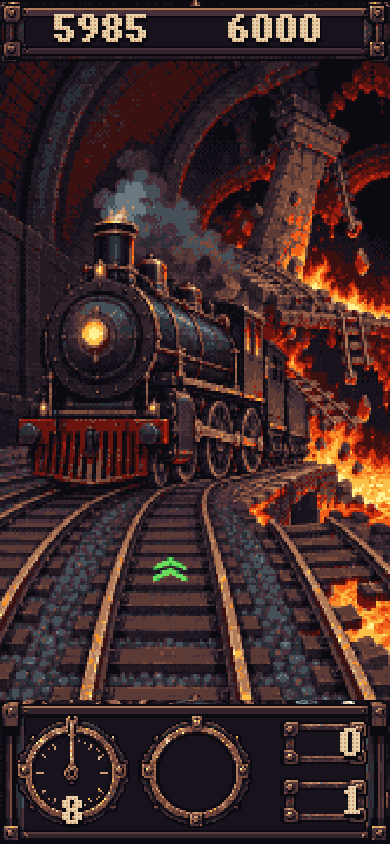
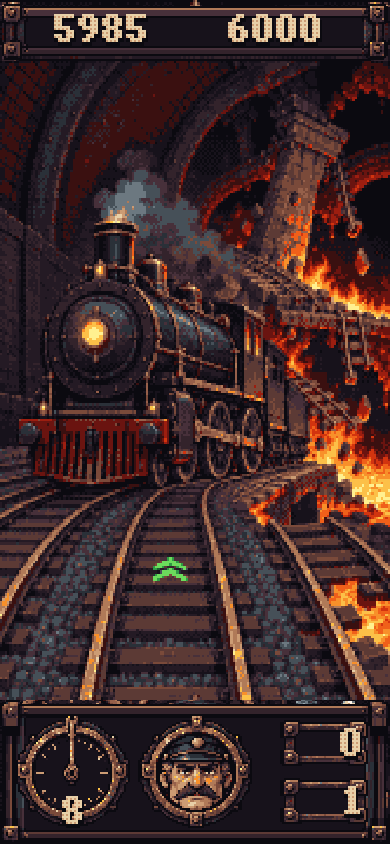
Добавь шесть реакций машиниста

Changed region(s): [[0.4, 0.8626, 0.6154, 0.9858]]

diff --git a/art_src/hud_v3/prepare.py b/art_src/hud_v3/prepare.py
@@ -95,11 +95,43 @@ def hardware():
 def load(name):
     return Image.open(OUT/(name+'.png')).convert('RGBA')
 
+def portraits():
+    src=Image.open(HERE/'drafts/portraits.png')
+    states=['calm','tense','joy','hit','fire','fall']
+    faces=[]
+    for i,state in enumerate(states):
+        x,y=(i%3)*500,(i//3)*480
+        face=finish(src.crop((87+x,36+y,447+x,446+y)).resize((48,48),N))
+        if faces:
+            # The cap and lower scarf are literally shared pixels, preserving identity.
+            face.paste(faces[0].crop((0,0,48,17)),(0,0))
+            face.paste(faces[0].crop((0,44,48,48)),(0,44))
+        faces.append(face.copy())
+        canvas=Image.new('RGBA',(48,48),rgba('241a24'))
+        canvas.alpha_composite(face)
+        mask=Image.new('L',(48,48))
+        ImageDraw.Draw(mask).ellipse((0,0,47,47),fill=255)
+        canvas.putalpha(mask)
+        save('portrait_'+state,canvas,'Engineer reaction: '+state,identity='engineer_01',face_anchor=[24,26],frame_offset=[5,6])
+    sheet=Image.new('RGB',(696,292),'#17121b')
+    d=ImageDraw.Draw(sheet)
+    for i,state in enumerate(states):
+        face=load('portrait_'+state)
+        tile=Image.new('RGBA',(58,58))
+        tile.alpha_composite(face,(5,6))
+        tile.alpha_composite(load('portrait_frame'))
+        sheet.paste(tile.resize((116,116),N),(i*116,24),tile.resize((116,116),N))
+        sheet.paste(face.resize((96,96),N),(i*116+10,170),face.resize((96,96),N))
+        d.text((i*116+10,6),state,fill='#e8d0a8')
+    sheet.save(PRE/'portraits_six_states.png')
+
 def compose():
     board=Image.new('RGBA',(195,72))
     board.alpha_composite(load('bar_bottom'))
     board.alpha_composite(load('gauge_face'),(7,7))
     board.alpha_composite(load('gauge_needle'),(31,7))
+    if (OUT/'portrait_calm.png').exists():
+        board.alpha_composite(load('portrait_calm'),(74,13))
     board.alpha_composite(load('portrait_frame'),(69,7))
     board.alpha_composite(load('counter_socket'),(139,10))
     board.alpha_composite(load('counter_socket'),(139,39))
@@ -136,6 +168,8 @@ def main():
     PRE.mkdir(parents=True,exist_ok=True)
     if '--check-only' not in sys.argv:
         hardware()
+        if (HERE/'drafts/portraits.png').exists():
+            portraits()
         compose()
         manifest=dict(version=3,kind='integration art description; not a runtime registry',palette_source='docs/STYLE.md',filter='nearest',alpha='binary',css_art_scale_390=2,
                       bottom_panel=dict(css_rect=[0,700,390,144],max_css_height=150,headroom_css=6),assets=records)

diff --git a/art_src/hud_v3/README.md b/art_src/hud_v3/README.md
@@ -18,3 +18,9 @@ baseline 15. Слова не запечены. Промежуточные ген
 `previews/hud_390x844.png` — композиция игровых PNG поверх художественного эталона,
 не снимок игры. Низ начинается на y=700, заканчивается на y=844. Интеграция в DOM
 и поведение показателей выполняются отдельной карточкой; JS этим пакетом не меняется.
+
+Шесть `portrait_*`: calm / tense / joy / hit / fire / fall — спокоен, напряжён, рад,
+получил удар, перегрелся в огне, падает. Один машинист `engineer_01`: одинаковая фуражка,
+крупный нос, тёмные усы и седые виски; верх фуражки и нижний край шарфа унифицированы
+побайтно. Холст 48×48, позиция относительно рамки `[5,6]`; рамка накладывается сверху.
+`previews/portraits_six_states.png` показывает каждый портрет отдельно и внутри рамки при ×2.
